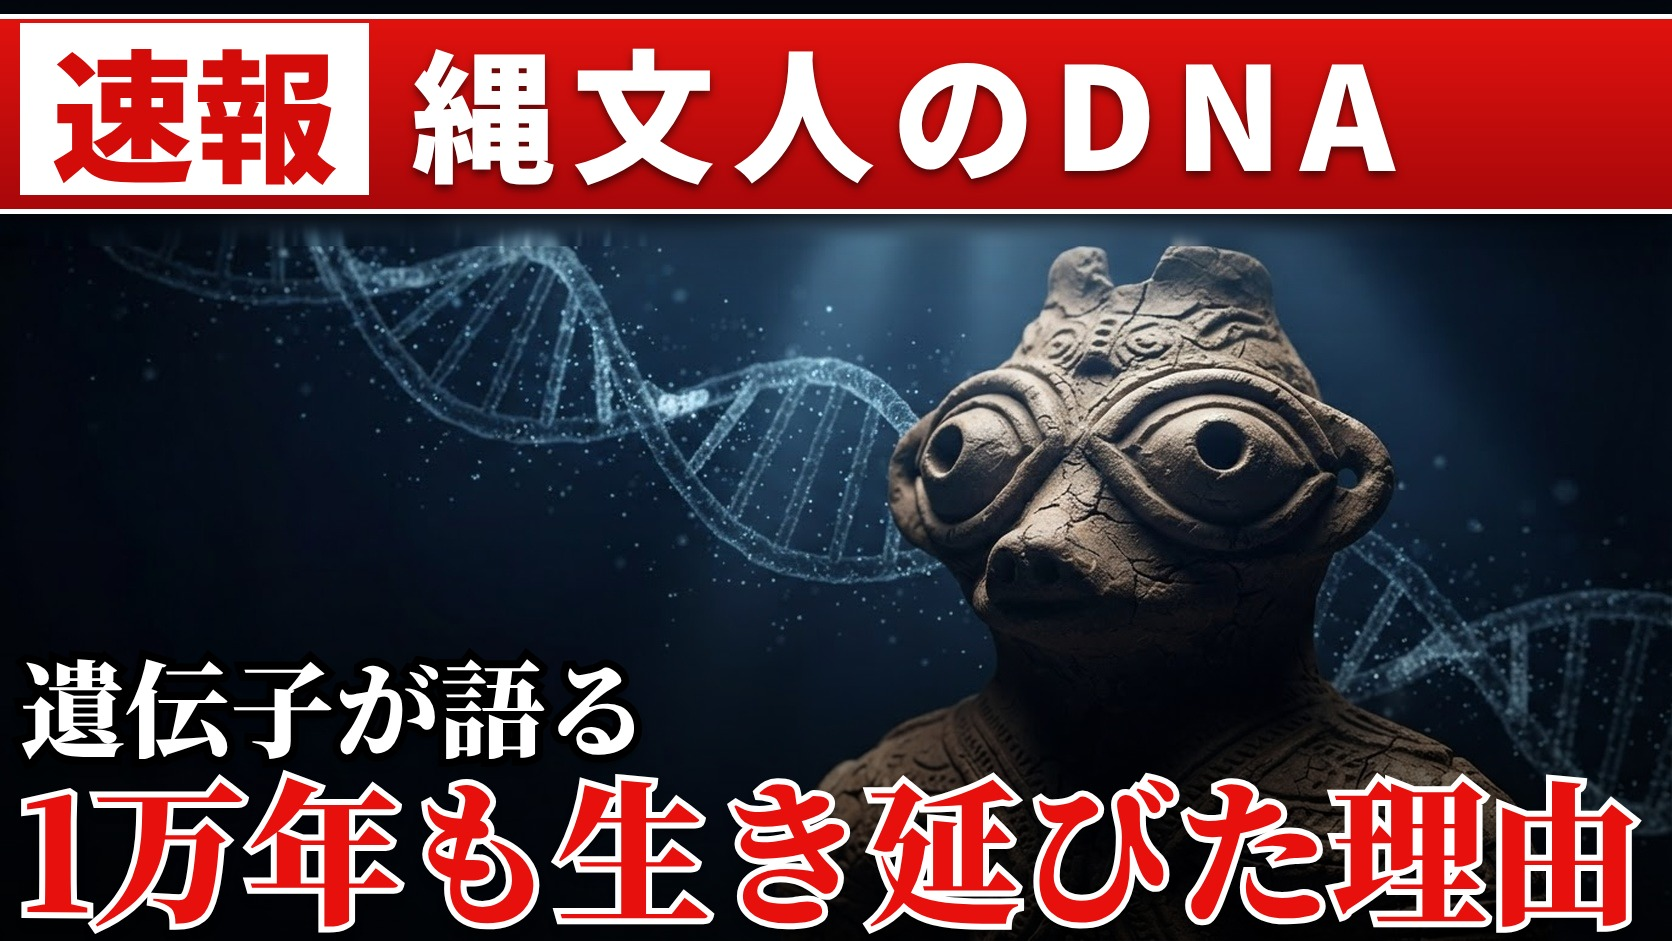
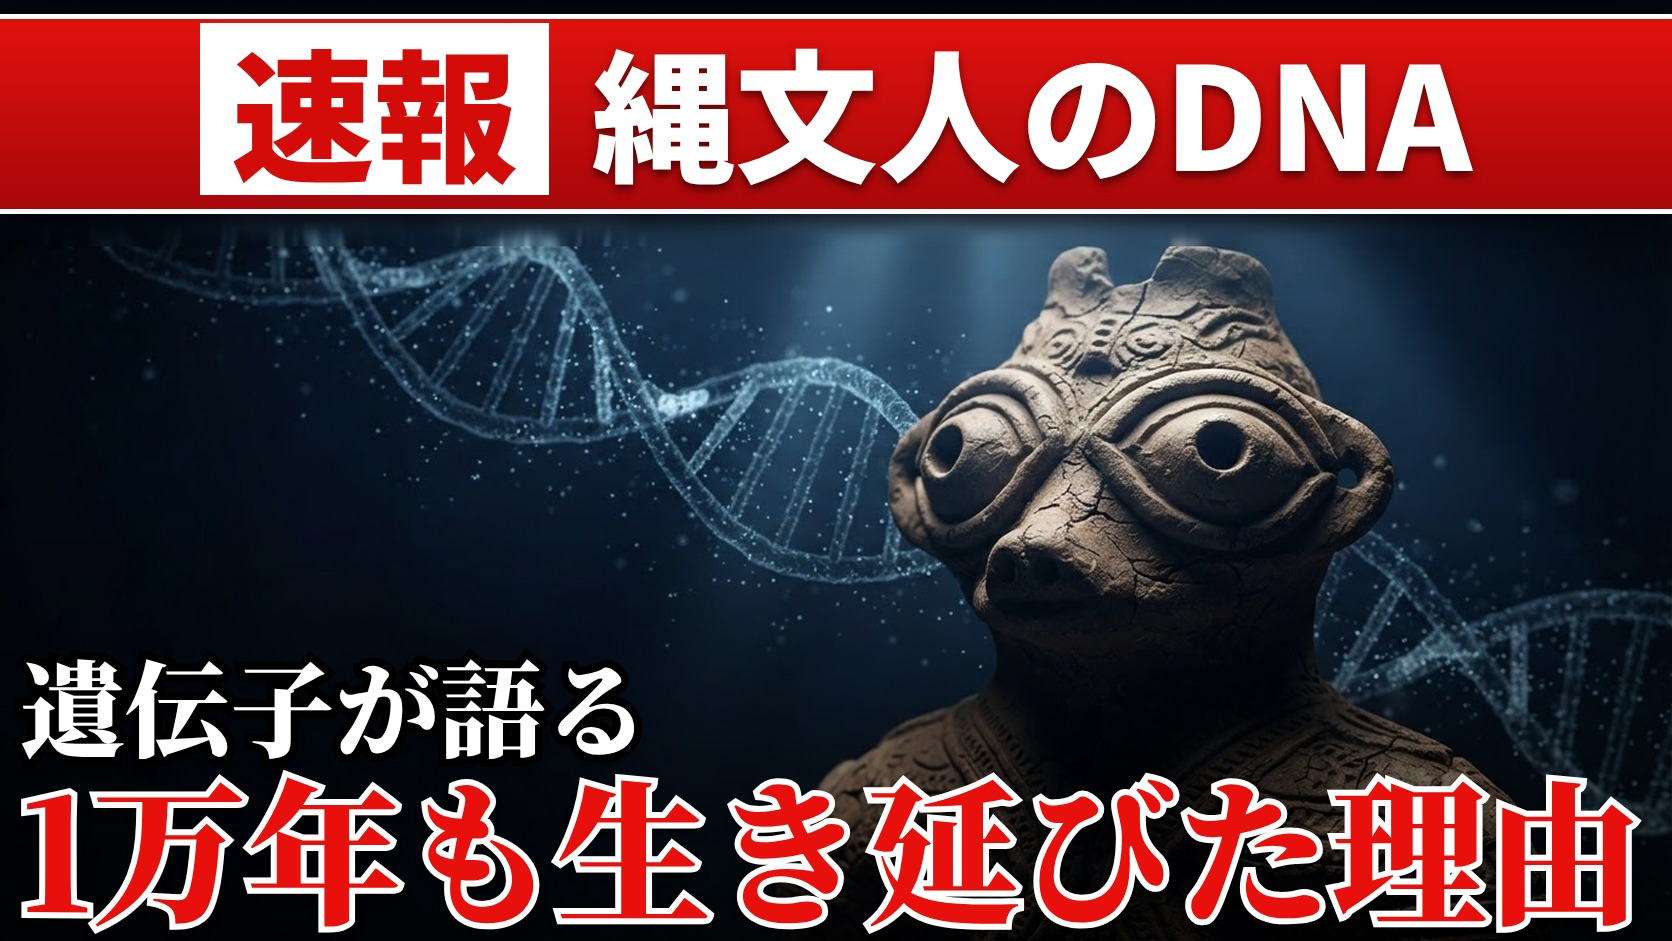
縄文人: サムネの上段を中央揃えに
Claude-Session: https://claude.ai/code/session_01BYpZQXYNUwHTnyuBiz7NfV

Changed region(s): [[0.0, 0.0, 0.9019, 0.2157]]

diff --git a/habi-jomon/サムネ/jgen.py b/habi-jomon/サムネ/jgen.py
@@ -1,4 +1,4 @@
-# 縄文サムネ：左右の余白なし（端から20px）。下段は左右いっぱい、上段は下段の0.92倍で字間を広げて左右いっぱい、中段は0.68倍で左寄せ。上下の余白は詰める
+# 縄文サムネ：左右の余白なし（端から20px）。下段は左右いっぱい、上段は下段の0.92倍で中央揃え（字間は広げない）、中段は0.68倍で左寄せ。上下の余白は詰める
 HEAD='''<html><head><style>
 @font-face{font-family:N;src:url(NotoSerifJP-Black.ttf)}
 @font-face{font-family:G;src:url(NotoSansJP-Black.ttf)}
@@ -32,14 +32,14 @@ document.fonts.ready.then(()=>{
   const bot=document.getElementById('bot'), w0=natural(bot,100), B=Math.floor(100*W/w0); natural(bot,B);
   bot.querySelectorAll('.L').forEach(e=>e.style.top=(941-18-B)+'px');
   const top=document.getElementById('top');
-  if(top){const T=Math.min(Math.round(B*0.92),Math.floor(px0(top))); fill(top,T); top.querySelectorAll('.L').forEach(e=>e.style.top='22px');}
+  if(top){const T=Math.min(Math.round(B*0.92),Math.floor(px0(top))); natural(top,T); top.querySelectorAll('.L').forEach(e=>e.style.textAlign='center'); top.querySelectorAll('.L').forEach(e=>e.style.top='22px');}
   const mid=document.getElementById('mid');
   if(mid){const P=Math.round(B*0.68); natural(mid,P); mid.querySelectorAll('.L').forEach(e=>e.style.top=(941-18-B-12-P)+'px');}
   const nw=document.getElementById('news');
   if(nw){ // 速報帯：下段より少し小さく、帯いっぱい
     let px=Math.round(B*0.92); nw.style.fontSize=px+'px';
     const r=nw.scrollWidth; const inner=[...nw.children].reduce((a,c)=>a+c.getBoundingClientRect().width,0)+0.3*px;
-    const ls=(W-inner)/(nw.dataset.n-1)/px; if(ls>0) nw.querySelector('.gw').style.letterSpacing=Math.min(ls,0.12)+'em';
+    const ls=(W-inner)/(nw.dataset.n-1)/px; nw.style.justifyContent='center';nw.style.paddingLeft='0';
     document.querySelector('.band').style.top='14px'; nw.style.top=(14+5+(180-px*1.2)/2)+'px'; nw.style.height=(px*1.2)+'px';
   }
   document.body.dataset.done=1;

diff --git a/habi-jomon/サムネ案.md b/habi-jomon/サムネ案.md
@@ -63,3 +63,4 @@
 - 2026-11-28 文字組み変更（本人の希望）：下段（赤）を左右いっぱいに広げ、上段は下段の0.86倍。上段は字間を広げて左右いっぱいにし、広げすぎになる（字間0.14em超）ときは中央揃え。中段は下段の0.68倍で中央。→ ①上段は左右いっぱい、②上段・③速報帯は中央
 - 2026-11-28 再変更（本人の希望）：文字はすべて左寄せ（左端36px）。上下の余白を詰める（上段は上から22px、下段は下から18px、中段と下段の間12px、速報帯は上から14px）。大きさの比（上0.86・中0.68・下=左右いっぱい）は同じ
 - 2026-11-28 再変更（本人の参考画像）：左右の余白をなくす（端から20px）。下段は左右いっぱい、上段は下段の0.92倍で字間を広げて左右いっぱい。速報帯の文字は下段の0.92倍（字間は0.12emまで）。中段は0.68倍で左寄せ
+- 2026-11-28 再変更：上段は字間を広げず中央揃え（速報帯の文字も中央）。下段は左右いっぱい、中段は左寄せのまま
